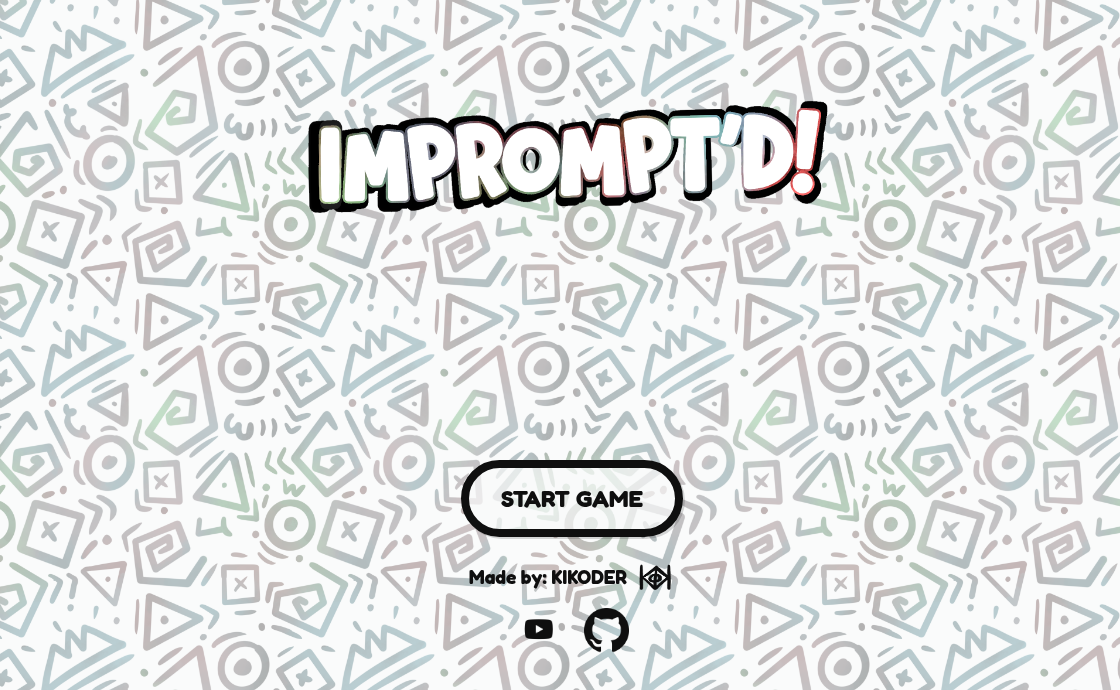
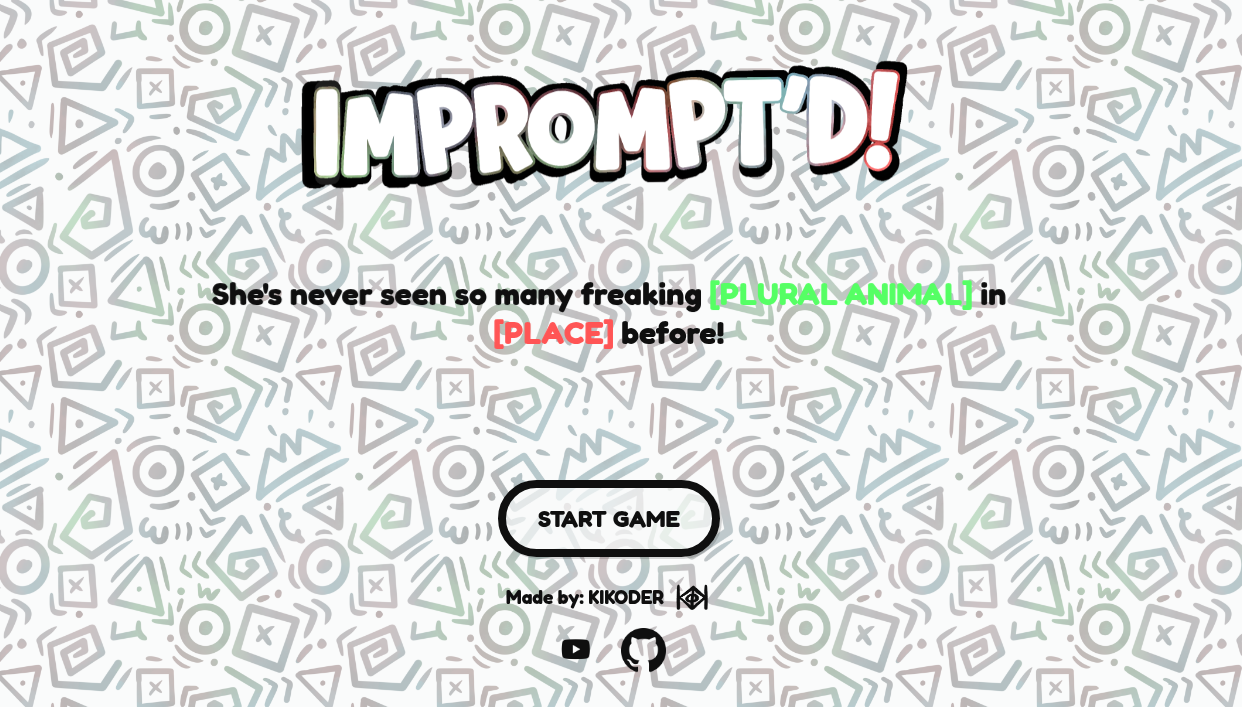
Adjusted styles for multiple screens.

diff --git a/styles.css b/styles.css
@@ -271,6 +271,7 @@ body.dark-mode #theme-input {
 .dice-btn {
   width: 70px;
   height: 70px;
+  margin-top: -1.8rem;
   cursor: pointer;
   transition: transform 0.2s ease;
 }
@@ -281,6 +282,13 @@ body.dark-mode #theme-input {
 
 .dice-btn:active {
   transform: rotate(-45deg);
+}
+
+.dice-label {
+  color: var(--text-dark);
+  font-weight: 600;
+  font-size: 1.5rem;
+  margin-top: -15px;
 }
 
 /* --------------------------------------------- */
@@ -356,17 +364,34 @@ body.dark-mode #placeholder-form input {
   display: none;
 }
 
+.shadow {
+  filter: drop-shadow(0 0 2px rgba(0, 0, 0, 0.418));
+}
+
 /* --------------------------------------------- */
 /*               Splash Text                     */
 /* --------------------------------------------- */
 
 .splash-text {
-  font-size: 2rem;
+  font-size: 28px;
   font-weight: bold;
-  margin-top: -6rem;
+  margin-top: -4rem;
   margin-bottom: 8rem;
-  animation: splash-bob 3s ease-in-out infinite;
-  color: var(--text-dark); /* base color; colored spans override this */
+  animation: popIn 1s ease, splash-bob 3s ease-in-out infinite;
+  color: var(--text-dark);
+}
+
+/* --------------------------------------------- */
+/*               Loading Indicator               */
+/* --------------------------------------------- */
+
+.loading {
+  font-size: 1.5rem;
+  font-weight: bold;
+  color: var(--accent-green);
+  margin-top: 1rem;
+  animation: pulse 1.2s infinite;
+  text-shadow: 4px 4px 4px var(--shadow);
 }
 
 /* --------------------------------------------- */
@@ -427,12 +452,10 @@ body.dark-mode #placeholder-form input {
 @keyframes splash-bob {
   0%, 100% {
     transform: translateY(0);
-    opacity: 0.7;
     transform: scale(0.95)
   }
   50% {
     transform: translateY(-5px);
-    opacity: 1;
     transform: scale(1)
   }
 }

diff --git a/index.html b/index.html
@@ -12,8 +12,8 @@
         <button id="toggle-theme" class="theme-toggle">🌙</button>
         <div id="landing-screen" class="screen active">
             <div class="landing-content">
-              <img src="assets/Title-dark.png" alt="Imprompt'd Logo" class="logo" />
-              <p id="splash-text" class="splash-text"></p>
+              <img src="assets/Title-dark.png" alt="Imprompt'd Logo" class="logo shadow" />
+              <p id="splash-text" class="splash-text shadow"></p>
               <button class="land">START GAME</button>
               <footer class="footer land">
                 <div class="branding">
@@ -37,7 +37,10 @@
                 <h2 class="theme header">Choose your <span class="green">theme:</span></h2>
                 <div class="theme-input-group">
                     <input type="text" class="input theme" id="theme-input" placeholder="e.g., a funny Murder Mystery">
-                    <img src="assets/Dice.png" id="randomize-btn" alt="Roll Dice" class="dice-btn" />
+                    <div class="dice-container">
+                      <p class="dice-label shadow"><span class="red">Ran</span><span class="green">dom</span><span class="blue">ize</span>!</p>
+                      <img src="assets/Dice.png" id="randomize-btn" alt="Roll Dice" class="dice-btn shadow" />
+                    </div>
                 </div>
                 <button class="theme">GENERATE</button>
                 <div id="loading-indicator" class="loading hidden gen">
